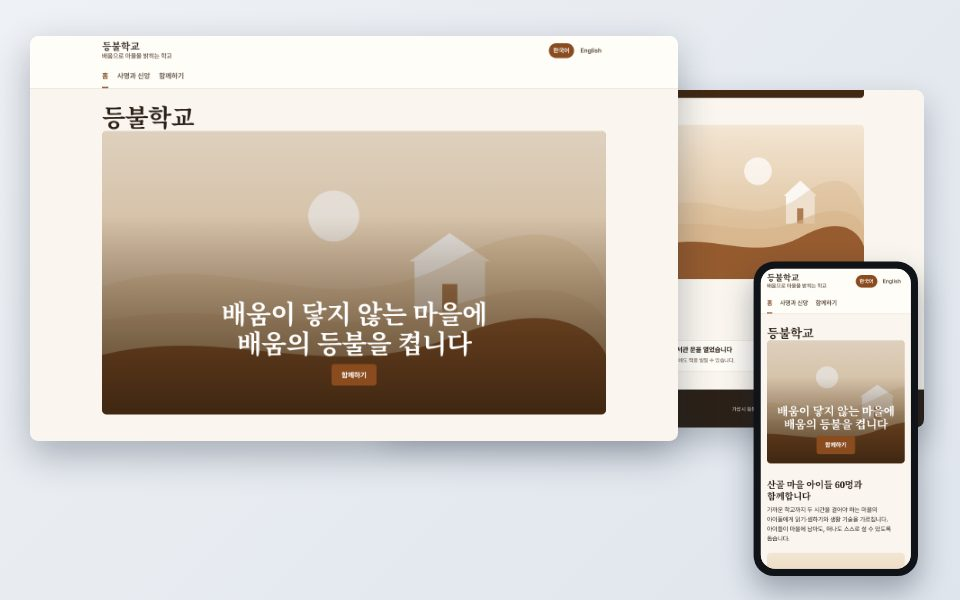
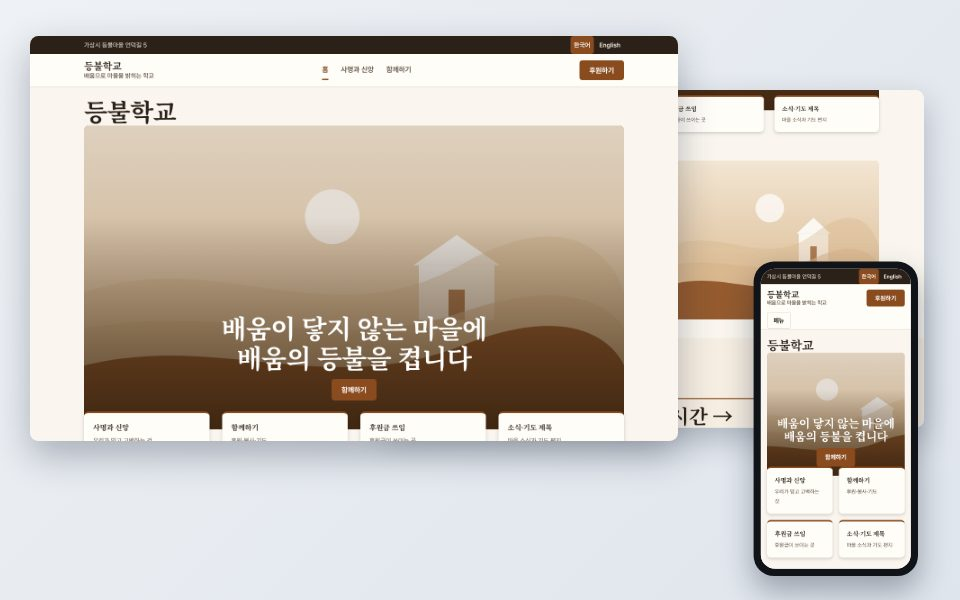
112차: 나머지 5종 템플릿에 학교 홈페이지 공통 구역 적용(알림 v3·입학 v4·사명 v3·국제 v3·한 쪽 v3)
Claude-Session: https://claude.ai/code/session_013RZyUom6xS67hpTPYHpecQ

Changed region(s): [[0.0312, 0.06, 0.7188, 0.75], [0.6875, 0.15, 0.9688, 0.96], [0.3125, 0.36, 0.3438, 0.39]]

diff --git a/src/lib/site-templates.ts b/src/lib/site-templates.ts
@@ -62,7 +62,7 @@ const commonSlots = (): Slot[] => [
 
 export const SITE_TEMPLATES: SiteTemplate[] = [
   {
-    key: 'notice', version: 2, name: '알림 중심형', theme: 'clear', langs: ['ko'],
+    key: 'notice', version: 3, name: '알림 중심형', theme: 'clear', langs: ['ko'],
     summary: '재학생 가정이 매일 찾는 알림·소식·학사일정·급식을 첫 화면에 둡니다.',
     fits: ['공립·지역 학교', '재학생 가정이 주 방문자', '공지가 많은 학교'], firstScreen: '알림 · 최근 소식 · 학사일정 · 급식',
     mustHave: ['학교 소개(인사말·연혁·교육목표)', '학사일정', '오시는 길', '입학·전학 안내'],
@@ -70,14 +70,17 @@ export const SITE_TEMPLATES: SiteTemplate[] = [
       page('home', 0, ko('[학교 이름]'), [
         // 89차: 완성 디자인(맑은 하늘)의 첫 화면 — 큰 사진 위 학교 한 줄(사진은 학교가 올림)
         section({ template: 'banner', title: ko('[학교를 한 문장으로 — 예: 마을과 함께 자라는 학교]'), button: { label: ko('학교 소개'), href: '/p/about' } }),
-        { type: 'notice', text: ko('[이번 주 가장 중요한 알림 한 줄 — 예: 다음 주 월요일 재량 휴업일]') },
-        news(ko('알림·가정통신문'), 6, 'list'),
-        section({ template: 'cards', title: ko('바로 가기'), items: [
+        // 107차: 첫 화면에 걸친 바로가기
+        section({ template: 'cards', variant: 'quicklinks', title: ko('바로 가기'), items: [
           { title: ko('학사일정'), body: ko('[이번 달 주요 일정]'), href: '/p/school-life' },
           { title: ko('급식 안내'), body: ko('[이번 달 식단표는 학교 생활 쪽에]'), href: '/p/school-life' },
+          { title: ko('입학·전학'), body: ko('[입학·전학 안내 한 줄]'), href: '/p/admission' },
           { title: ko('오시는 길'), body: ko('[대중교통·주차 안내]'), href: '/p/about' },
         ] }),
-      ], { site: contact() }),
+        { type: 'notice', text: ko('[이번 주 가장 중요한 알림 한 줄 — 예: 다음 주 월요일 재량 휴업일]') },
+        news(ko('알림·가정통신문'), 6, 'list'),
+        events('알림', '이번 달 학사일정'),
+      ], { site: contact({ label: '오시는 길', href: '/p/about' }) }),
       page('about', 1, ko('학교 소개'), [
         section({ template: 'text', title: ko('인사말'), body: ko('[교장 인사말 3~5문장]') }),
         section({ template: 'facts', title: ko('교육 목표'), items: [{ title: ko('[교육 목표 1]'), body: ko('[설명]') }, { title: ko('[교육 목표 2]'), body: ko('[설명]') }] }),
@@ -88,6 +91,11 @@ export const SITE_TEMPLATES: SiteTemplate[] = [
         section({ template: 'facts', title: ko('학사일정'), items: [{ title: ko('[월]'), body: ko('[주요 일정]') }] }),
         section({ template: 'text', title: ko('급식'), body: ko('[급식 운영 안내 · 이번 달 식단표는 PDF로 올려 주세요]') }),
         section({ template: 'text', title: ko('방과후·돌봄'), body: ko('[운영 시간·신청 방법]') }),
+      ]),
+      page('admission', 3, ko('입학·전학'), [
+        section({ template: 'steps', title: ko('입학·전학 절차'), items: [{ title: ko('문의'), body: ko('[알림 입학 문의]') }, { title: ko('서류 제출'), body: ko('[알림 입학 서류]') }, { title: ko('배정·안내'), body: ko('[알림 배정 안내]') }] }),
+        section({ template: 'facts', title: ko('준비할 서류'), items: [{ title: ko('[알림 서류 1]'), body: ko('[알림 서류 1 설명]') }, { title: ko('[알림 서류 2]'), body: ko('[알림 서류 2 설명]') }] }),
+        section({ template: 'cta', title: ko('입학·전학 문의'), body: ko('[알림 입학 연락처]') }),
       ]),
     ],
     slots: [
@@ -148,20 +156,24 @@ export const SITE_TEMPLATES: SiteTemplate[] = [
     ],
   },
   {
-    key: 'admissions', version: 3, name: '입학 모집형', theme: 'bold', langs: ['ko', 'en'],
+    key: 'admissions', version: 4, name: '입학 모집형', theme: 'bold', langs: ['ko', 'en'],
     summary: '예비 학부모가 차별점을 보고 문의·견학·지원으로 이어지게 합니다.',
     fits: ['신입생을 모집하는 사립·국제학교'], firstScreen: '차별점 3가지 · 입학 단추',
     mustHave: ['입학 절차', '학비·추가 비용', '자주 묻는 질문', '문의처'],
     pages: [
       page('home', 0, kb('[학교 이름]', '[School name]'), [
         section({ template: 'banner', title: kb('[우리 학교를 고르는 이유 한 문장]', '[Why families choose us]'), button: { label: kb('입학 안내', 'Admissions'), href: '/p/admissions' } }),
+        quicklinks([['왜 우리 학교인가', '/p/why'], ['교육과정', '/p/curriculum'], ['입학 안내', '/p/admissions'], ['소식', '/news']], '입학'),
         section({ template: 'cards', title: kb('무엇이 다른가요', 'What makes us different'), items: [
           { title: ko('[차별점 1]'), body: ko('[근거가 되는 사실 한 줄]') }, { title: ko('[차별점 2]'), body: ko('[근거]') }, { title: ko('[차별점 3]'), body: ko('[근거]') }] }),
+        stats('입학'),
+        voices('입학', '학부모·졸업생 이야기'),
+        events('입학', '입학 설명회 일정'),
         news(kb('소식', 'News'), 3),
-      ], { site: contact() }),
+      ], { site: contact({ label: '입학 상담', href: '/p/admissions' }) }),
       page('why', 1, kb('왜 우리 학교인가', 'Why us'), [
         section({ template: 'media-left', title: ko('[졸업생·학부모 이야기]'), body: ko('[실제 이야기 — 이름은 허락받은 경우만]') }),
-        section({ template: 'facts', title: ko('숫자로 보는 학교'), items: [{ title: ko('[학생 수]'), body: ko('[설명]') }, { title: ko('[교사 1인당 학생]'), body: ko('[설명]') }] }),
+        section({ template: 'facts', variant: 'stats', title: ko('숫자로 보는 학교'), items: [{ title: ko('[학생 수]'), body: ko('[설명]') }, { title: ko('[교사 1인당 학생]'), body: ko('[설명]') }] }),
       ]),
       page('curriculum', 2, kb('교육과정', 'Curriculum'), [
         section({ template: 'steps', title: ko('학년별 과정'), items: [{ title: ko('[과정 1]'), body: ko('[설명]') }, { title: ko('[과정 2]'), body: ko('[설명]') }] }),
@@ -176,7 +188,7 @@ export const SITE_TEMPLATES: SiteTemplate[] = [
     ],
     slots: [
       ...commonSlots(),
-      slot('differences', 'home', ['blocks', 1, 'items'], 'list', '차별점 3가지', '차별점과 근거 사실', ['특징', '장점', '차별', 'why', 'unique']),
+      slot('differences', 'home', ['blocks', 2, 'items'], 'list', '차별점 3가지', '차별점과 근거 사실', ['특징', '장점', '차별', 'why', 'unique']),
       slot('process', 'admissions', ['blocks', 0, 'items'], 'list', '입학 절차', '문의→견학→지원→결과', ['입학', '전형', '모집', '원서', 'admission', 'apply']),
       slot('fees', 'admissions', ['blocks', 1, 'items'], 'list', '학비와 비용', '금액은 자료 그대로', ['학비', '수업료', '등록금', '비용', 'tuition', 'fee']),
       slot('faq', 'admissions', ['blocks', 2, 'items'], 'list', '자주 묻는 질문', '질문과 답', ['질문', 'FAQ', '문의']),
@@ -227,16 +239,20 @@ export const SITE_TEMPLATES: SiteTemplate[] = [
     ],
   },
   {
-    key: 'mission', version: 2, name: '사명·후원형', theme: 'lamp', langs: ['ko', 'en'],
+    key: 'mission', version: 3, name: '사명·후원형', theme: 'lamp', langs: ['ko', 'en'],
     summary: '학교의 사명과 함께하는 방법(후원·봉사·기도)을 분명히 알립니다.',
     fits: ['기독교·선교 학교', '후원으로 운영되는 비영리 학교'], firstScreen: '사명 · 후원 단추 · 소식',
     mustHave: ['사명·신앙 고백', '후원 방법과 쓰임', '재정 보고(있으면)'],
     pages: [
       page('home', 0, kb('[학교 이름]', '[School name]'), [
         section({ template: 'banner', title: kb('[학교의 사명 한 문장]', '[Our mission]'), button: { label: kb('함께하기', 'Get involved'), href: '/p/partner' } }),
+        quicklinks([['사명과 신앙', '/p/mission'], ['함께하기', '/p/partner'], ['후원금 쓰임', '/p/partner'], ['소식·기도 제목', '/news']], '사명'),
         section({ template: 'media-right', title: ko('[이 학교가 섬기는 아이들과 마을]'), body: ko('[누구를, 어디에서, 왜]') }),
+        stats('사명'),
+        events('사명', '기도·방문 일정'),
+        voices('사명', '함께하는 분들의 이야기'),
         news(kb('소식·기도 제목', 'News & prayer'), 3),
-      ], { site: contact() }),
+      ], { site: contact({ label: '후원하기', href: '/p/partner' }) }),
       page('mission', 1, kb('사명과 신앙', 'Mission & faith'), [
         section({ template: 'quote', body: ko('[사명 선언문]') }),
         section({ template: 'facts', title: ko('우리가 믿는 것'), items: [{ title: ko('[고백 1]'), body: ko('[설명]') }] }),
@@ -256,7 +272,7 @@ export const SITE_TEMPLATES: SiteTemplate[] = [
     ],
   },
   {
-    key: 'international', version: 2, name: '국제·다국어형', theme: 'horizon', langs: ['en', 'ko', 'th'],
+    key: 'international', version: 3, name: '국제·다국어형', theme: 'horizon', langs: ['en', 'ko', 'th'],
     summary: '여러 언어로 교육과정 경로와 입학 여정을 안내합니다.',
     fits: ['국제학교', '외국 가정·현지 가정을 함께 받는 학교'], firstScreen: '다국어 소개 · 문의 단추',
     mustHave: ['교육과정 경로(학년·인가)', '입학 여정', '학생 생활(기숙·통학)', '언어별 연락처'],
@@ -264,10 +280,20 @@ export const SITE_TEMPLATES: SiteTemplate[] = [
       page('home', 0, { en: '[School name]', ko: '[학교 이름]', th: '[ชื่อโรงเรียน]' }, [
         section({ template: 'banner', title: { en: '[One sentence about the school]', ko: '[학교 소개 한 문장]', th: '[แนะนำโรงเรียนหนึ่งประโยค]' },
           button: { label: { en: 'Enquire', ko: '문의하기', th: 'ติดต่อสอบถาม' }, href: '/p/admissions' } }),
-        section({ template: 'cards', title: { en: 'Pathways', ko: '교육과정 경로', th: 'หลักสูตร' }, items: [
+        section({ template: 'cards', variant: 'quicklinks', title: { en: 'Quick links', ko: '바로 가기', th: 'ลิงก์ด่วน' }, items: [
+          { title: { en: 'Curriculum', ko: '교육과정', th: 'หลักสูตร' }, body: { en: '[Quick link 1]' }, href: '/p/curriculum' },
+          { title: { en: 'Admissions', ko: '입학', th: 'การรับสมัคร' }, body: { en: '[Quick link 2]' }, href: '/p/admissions' },
+          { title: { en: 'Student life', ko: '학생 생활', th: 'ชีวิตนักเรียน' }, body: { en: '[Quick link 3]' }, href: '/p/student-life' },
+          { title: { en: 'News', ko: '소식', th: 'ข่าว' }, body: { en: '[Quick link 4]' }, href: '/news' }] }),
+        section({ template: 'cards', variant: 'stages', title: { en: 'Pathways', ko: '교육과정 경로', th: 'หลักสูตร' }, items: [
           { title: { en: '[Early years]', ko: '[유아]' }, body: { en: '[Ages · programme]' } }, { title: { en: '[Primary]', ko: '[초등]' }, body: { en: '[Ages · programme]' } }, { title: { en: '[Secondary]', ko: '[중등]' }, body: { en: '[Ages · programme]' } }] }),
+        section({ template: 'facts', variant: 'stats', eyebrow: { en: 'At a glance', ko: '숫자로 보는 학교' }, title: { en: '[At a glance title]' },
+          items: [1, 2, 3, 4].map((i) => ({ title: { en: `[Number ${i}]` }, body: { en: `[Number ${i} label]` } })) }),
+        section({ template: 'cards', variant: 'events', eyebrow: { en: 'Coming up', ko: '다가오는 일정' }, title: { en: 'Open days & events', ko: '설명회·행사' },
+          items: [1, 2, 3].map((i) => ({ tag: { en: `[Event ${i} date]` }, title: { en: `[Event ${i}]` }, body: { en: `[Event ${i} note]` } })) }),
         news({ en: 'News', ko: '소식', th: 'ข่าว' }, 3),
-      ], { site: { tagline: { en: '[One line about the school]' }, address: { en: '[Address]' }, footer: { en: '[School name] · [Phone] · [Email]' } } }),
+      ], { site: { tagline: { en: '[One line about the school]' }, address: { en: '[Address]' }, footer: { en: '[School name] · [Phone] · [Email]' },
+        visit: { label: { en: 'Enquire', ko: '문의하기', th: 'ติดต่อสอบถาม' }, href: '/p/admissions' } } }),
       page('curriculum', 1, { en: 'Curriculum', ko: '교육과정', th: 'หลักสูตร' }, [
         section({ template: 'steps', title: { en: 'Pathway', ko: '경로' }, items: [{ title: { en: '[Stage]' }, body: { en: '[Programme · accreditation]' } }] }),
       ]),
@@ -283,7 +309,7 @@ export const SITE_TEMPLATES: SiteTemplate[] = [
       slot('tagline', 'home', ['site', 'tagline'], 'text', 'One line (tagline)', 'One sentence', ['tagline', 'motto', '슬로건']),
       slot('address', 'home', ['site', 'address'], 'contact', 'Address', 'Address', ['address', '주소', 'ที่อยู่']),
       slot('footer', 'home', ['site', 'footer'], 'contact', 'Footer contact', 'Name · phone · email', ['phone', 'email', 'contact', '연락처']),
-      slot('pathways', 'home', ['blocks', 1, 'items'], 'list', 'Pathways', 'Stages with ages and programme', ['IB', 'curriculum', 'programme', 'grade', '교육과정']),
+      slot('pathways', 'home', ['blocks', 2, 'items'], 'list', 'Pathways', 'Stages with ages and programme', ['IB', 'curriculum', 'programme', 'grade', '교육과정']),
       slot('journey', 'admissions', ['blocks', 0, 'items'], 'list', 'Admissions journey', 'Enquire → visit → apply → join', ['admission', 'apply', 'enrol', '입학']),
       slot('fees', 'admissions', ['blocks', 1, 'items'], 'list', 'Fees', 'As stated in source', ['fee', 'tuition', '학비']),
     ],
@@ -339,7 +365,7 @@ export const SITE_TEMPLATES: SiteTemplate[] = [
     ],
   },
   {
-    key: 'single', version: 2, name: '한 쪽 소개형', theme: 'seed', langs: ['ko'],
+    key: 'single', version: 3, name: '한 쪽 소개형', theme: 'seed', langs: ['ko'],
     summary: '막 시작한 작은 학교·모임이 한 쪽에 소개·연락·소식을 담습니다.',
     fits: ['막 시작한 작은 학교', '홈스쿨 연합·배움 모임'], firstScreen: '소개 · 하는 일 · 연락',
     mustHave: ['누구를 위한 모임인지', '연락 방법'],
@@ -347,6 +373,7 @@ export const SITE_TEMPLATES: SiteTemplate[] = [
       page('home', 0, ko('[학교·모임 이름]'), [
         section({ template: 'text', title: ko('[우리는 누구인가요]'), body: ko('[두세 문장 소개]') }),
         section({ template: 'cards', title: ko('하는 일'), items: [{ title: ko('[활동 1]'), body: ko('[설명]') }, { title: ko('[활동 2]'), body: ko('[설명]') }] }),
+        events('모임', '다가오는 모임'),
         news(ko('소식'), 3, 'list'),
         section({ template: 'cta', title: ko('함께하고 싶으신가요?'), body: ko('[연락 방법]'), button: { label: ko('연락하기'), href: '/' } }),
       ], { site: contact() }),

diff --git a/src/lib/site-template-samples.ts b/src/lib/site-template-samples.ts
@@ -21,9 +21,18 @@ const contact = (name: string, phone: string, email: string, address: string, ta
 export const TEMPLATE_SAMPLES: Record<string, TemplateSample> = {
   notice: {
     school: '물빛초등학교',
-    images: [{ at: ['home', 'blocks', 0, 'asset'], name: 'notice-hero' }, { at: ['home', 'blocks', 3, 'items', 0, 'asset'], name: 'notice-calendar' }, { at: ['home', 'blocks', 3, 'items', 1, 'asset'], name: 'notice-lunch' }, { at: ['home', 'blocks', 3, 'items', 2, 'asset'], name: 'notice-way' }],
+    images: [{ at: ['home', 'blocks', 0, 'asset'], name: 'notice-hero' }],
     text: {
       ...contact('물빛초등학교', '000-000-0000', 'office@example.org', '가상시 물빛구 배움로 12', '서로 배우고 함께 자라는 마을 학교'),
+      // 107차(가상 예시)
+      '[입학·전학 안내 한 줄]': '전입 서류와 첫날 안내',
+      '[알림 행사 1 날짜]': '11.11', '[알림 행사 1]': '재량 휴업일', '[알림 행사 1 안내]': '돌봄교실은 평소처럼 운영합니다',
+      '[알림 행사 2 날짜]': '11.20', '[알림 행사 2]': '학부모 상담 주간', '[알림 행사 2 안내]': '20~24일, 담임과 15분 상담',
+      '[알림 행사 3 날짜]': '11.28', '[알림 행사 3]': '학예회', '[알림 행사 3 안내]': '오전 10시 강당, 가족 누구나',
+      '[알림 입학 문의]': '교무실에 전화로 전입 날짜를 알려 주세요', '[알림 입학 서류]': '주민센터 전입 신고 뒤 학교에 서류 제출', '[알림 배정 안내]': '반 배정과 첫날 준비물을 안내합니다',
+      '[알림 서류 1]': '재학 증명서', '[알림 서류 1 설명]': '전에 다니던 학교에서 발급(전학의 경우)',
+      '[알림 서류 2]': '예방 접종 확인', '[알림 서류 2 설명]': '보건실에서 확인합니다',
+      '[알림 입학 연락처]': '교무실 000-000-0000 · office@example.org · 평일 오전 9시~오후 4시',
       '[학교를 한 문장으로 — 예: 마을과 함께 자라는 학교]': '마을과 함께 자라는 우리 동네 학교',
       '[이번 주 가장 중요한 알림 한 줄 — 예: 다음 주 월요일 재량 휴업일]': '다음 주 월요일(11일)은 재량 휴업일입니다. 돌봄교실은 평소처럼 운영합니다.',
       '[이번 달 주요 일정]': '11일 재량 휴업 · 20일 학부모 상담 주간 · 28일 학예회',
@@ -93,9 +102,21 @@ export const TEMPLATE_SAMPLES: Record<string, TemplateSample> = {
   },
   admissions: {
     school: '새솔아카데미',
-    images: [{ at: ['home', 'blocks', 0, 'asset'], name: 'admissions-hero' }, { at: ['home', 'blocks', 1, 'items', 0, 'asset'], name: 'admissions-class' }, { at: ['home', 'blocks', 1, 'items', 1, 'asset'], name: 'admissions-books' }, { at: ['home', 'blocks', 1, 'items', 2, 'asset'], name: 'admissions-mentor' }],
+    images: [{ at: ['home', 'blocks', 0, 'asset'], name: 'admissions-hero' }, { at: ['home', 'blocks', 2, 'items', 0, 'asset'], name: 'admissions-class' }, { at: ['home', 'blocks', 2, 'items', 1, 'asset'], name: 'admissions-books' }, { at: ['home', 'blocks', 2, 'items', 2, 'asset'], name: 'admissions-mentor' }],
     text: {
       ...contact('새솔아카데미', '000-000-0000', 'admissions@example.org', '가상시 새솔구 미래로 30', '작은 학급, 깊은 배움'),
+      // 107차(가상 예시)
+      '[입학 바로가기 설명 1]': '작은 학급과 두 언어 수업', '[입학 바로가기 설명 2]': '기초·심화 과정', '[입학 바로가기 설명 3]': '절차·학비·질문', '[입학 바로가기 설명 4]': '학교 소식과 설명회',
+      '[입학 숫자 띠 제목]': '작은 학급이 만드는 차이',
+      '[입학 숫자 1]': '15명', '[입학 숫자 1 설명]': '한 반 최대 학생 수', '[입학 숫자 2]': '2개', '[입학 숫자 2 설명]': '수업 언어(국어·영어)',
+      '[입학 숫자 3]': '1:1', '[입학 숫자 3 설명]': '9학년부터 진로 멘토', '[입학 숫자 4]': '12년', '[입학 숫자 4 설명]': '1~12학년 한 캠퍼스',
+      '[공개에 동의한 분의 말만 싣습니다]': '예시 글입니다. 실제로는 공개에 동의한 분의 말만 싣습니다.',
+      '[입학 말한 사람 1]': '학부모 · 4학년', '[입학 목소리 1]': '선생님이 아이의 질문 하나하나를 기억해 주세요.',
+      '[입학 말한 사람 2]': '졸업생 · 2025년', '[입학 목소리 2]': '멘토와 함께 세운 진로 계획이 대학 선택의 기준이 됐어요.',
+      '[입학 말한 사람 3]': '학부모 · 8학년', '[입학 목소리 3]': '두 언어로 배우면서도 기초가 탄탄해졌습니다.',
+      '[입학 행사 1 날짜]': '9.13', '[입학 행사 1]': '1차 입학 설명회', '[입학 행사 1 안내]': '오전 10시 강당, 학교 둘러보기 포함',
+      '[입학 행사 2 날짜]': '10.11', '[입학 행사 2]': '2차 입학 설명회', '[입학 행사 2 안내]': '수업 참관과 Q&A',
+      '[입학 행사 3 날짜]': '11.01', '[입학 행사 3]': '원서 접수 시작', '[입학 행사 3 안내]': '온라인 접수, 11월 말 마감',
       '[School name]': 'Saesol Academy',
       '[신청 안내 한 줄]': '견학이나 상담을 원하시면 남겨 주세요. 입학 담당이 연락드립니다.',
       '[우리 학교를 고르는 이유 한 문장]': '한 반 열다섯 명, 한 명도 놓치지 않습니다',
@@ -172,9 +193,21 @@ export const TEMPLATE_SAMPLES: Record<string, TemplateSample> = {
   },
   mission: {
     school: '등불학교',
-    images: [{ at: ['home', 'blocks', 0, 'asset'], name: 'mission-hero' }, { at: ['home', 'blocks', 1, 'asset'], name: 'mission-village' }],
+    images: [{ at: ['home', 'blocks', 0, 'asset'], name: 'mission-hero' }, { at: ['home', 'blocks', 2, 'asset'], name: 'mission-village' }],
     text: {
       ...contact('등불학교', '000-000-0000', 'partner@example.org', '가상시 등불마을 언덕길 5', '배움으로 마을을 밝히는 학교'),
+      // 107차(가상 예시)
+      '[사명 바로가기 설명 1]': '우리가 믿고 고백하는 것', '[사명 바로가기 설명 2]': '후원·봉사·기도', '[사명 바로가기 설명 3]': '후원금이 쓰이는 곳', '[사명 바로가기 설명 4]': '마을 소식과 기도 편지',
+      '[사명 숫자 띠 제목]': '함께 켜 온 등불',
+      '[사명 숫자 1]': '60명', '[사명 숫자 1 설명]': '함께 배우는 마을 아이들', '[사명 숫자 2]': '8명', '[사명 숫자 2 설명]': '마을에 사는 교사',
+      '[사명 숫자 3]': '2시간 → 10분', '[사명 숫자 3 설명]': '학교까지 걷는 시간', '[사명 숫자 4]': '120가정', '[사명 숫자 4 설명]': '정기 후원으로 함께하는 가정',
+      '[사명 행사 1 날짜]': '3.02', '[사명 행사 1]': '새 학년 개학 예배', '[사명 행사 1 안내]': '함께 기도해 주세요',
+      '[사명 행사 2 날짜]': '7.20', '[사명 행사 2]': '여름 봉사 주간', '[사명 행사 2 안내]': '영어 캠프·시설 보수 봉사자 모집',
+      '[사명 행사 3 날짜]': '12.15', '[사명 행사 3]': '후원자 초청의 날', '[사명 행사 3 안내]': '한 해 재정 보고와 감사 모임',
+      '[공개에 동의한 분의 말만 싣습니다]': '예시 글입니다. 실제로는 공개에 동의한 분의 말만 싣습니다.',
+      '[사명 말한 사람 1]': '후원자 · 5년째', '[사명 목소리 1]': '기도 편지에 아이들 이름이 하나씩 늘어 가는 게 기쁨입니다.',
+      '[사명 말한 사람 2]': '봉사자 · 여름 캠프', '[사명 목소리 2]': '가르치러 갔는데 오히려 배우고 돌아왔어요.',
+      '[사명 말한 사람 3]': '교사', '[사명 목소리 3]': '아이들이 마을에서 처음으로 책을 끝까지 읽은 날을 잊지 못합니다.',
       '[School name]': 'Lamplight School',
       '[학교의 사명 한 문장]': '배움이 닿지 않는 마을에 배움의 등불을 켭니다',
       '[Our mission]': 'Lighting a lamp of learning where schooling is out of reach',
@@ -193,7 +226,7 @@ export const TEMPLATE_SAMPLES: Record<string, TemplateSample> = {
   },
   international: {
     school: 'Mapleglen International School',
-    images: [{ at: ['home', 'blocks', 0, 'asset'], name: 'international-hero' }, { at: ['home', 'blocks', 1, 'items', 0, 'asset'], name: 'international-early' }, { at: ['home', 'blocks', 1, 'items', 1, 'asset'], name: 'international-primary' }, { at: ['home', 'blocks', 1, 'items', 2, 'asset'], name: 'international-secondary' }],
+    images: [{ at: ['home', 'blocks', 0, 'asset'], name: 'international-hero' }, { at: ['home', 'blocks', 2, 'items', 0, 'asset'], name: 'international-early' }, { at: ['home', 'blocks', 2, 'items', 1, 'asset'], name: 'international-primary' }, { at: ['home', 'blocks', 2, 'items', 2, 'asset'], name: 'international-secondary' }],
     text: {
       '[School name]': 'Mapleglen International School', '[학교 이름]': '메이플글렌 국제학교', '[ชื่อโรงเรียน]': 'โรงเรียนนานาชาติเมเปิลเกลน',
       '[One sentence about the school]': 'A small international school where every child is known by name',
@@ -211,6 +244,13 @@ export const TEMPLATE_SAMPLES: Record<string, TemplateSample> = {
       '[Fee]': 'Annual tuition', '[Amount · terms]': 'Sample figure · paid per term (actual fees from school documents)',
       '[Boarding / day students]': 'Day students',
       '[Daily life, activities, care]': 'School runs 8:00–15:30. Clubs include football, music and coding. A pastoral tutor meets each student weekly.',
+      // 107차(sample)
+      '[Quick link 1]': 'Early years to secondary', '[Quick link 2]': 'Enquire, visit, apply, join', '[Quick link 3]': 'Clubs, care and daily life', '[Quick link 4]': 'Stories from our community',
+      '[At a glance title]': 'A small school with a wide world',
+      '[Number 1]': '320', '[Number 1 label]': 'students aged 3–18', '[Number 2]': '28', '[Number 2 label]': 'nationalities', '[Number 3]': '1:9', '[Number 3 label]': 'teacher to student', '[Number 4]': '3', '[Number 4 label]': 'school languages',
+      '[Event 1 date]': '10.04', '[Event 1]': 'Open morning', '[Event 1 note]': 'Campus tour and classroom visits',
+      '[Event 2 date]': '11.08', '[Event 2]': 'Admissions webinar', '[Event 2 note]': 'Ask our admissions team online',
+      '[Event 3 date]': '12.12', '[Event 3]': 'Winter concert', '[Event 3 note]': 'Families welcome',
     },
   },
   kinder: {
@@ -257,6 +297,10 @@ export const TEMPLATE_SAMPLES: Record<string, TemplateSample> = {
     images: [{ at: ['home', 'blocks', 1, 'items', 0, 'asset'], name: 'single-study' }, { at: ['home', 'blocks', 1, 'items', 1, 'asset'], name: 'single-outing' }],
     text: {
       ...contact('작은씨앗 배움모임', '000-000-0000', 'seed@example.org', '가상시 씨앗동 공부방길 2', '여섯 가정이 함께 꾸리는 배움 모임'),
+      // 107차(가상 예시)
+      '[모임 행사 1 날짜]': '매주 화·목', '[모임 행사 1]': '함께 배우는 날', '[모임 행사 1 안내]': '오전 10시, 공부방',
+      '[모임 행사 2 날짜]': '5.17', '[모임 행사 2]': '농장 나들이', '[모임 행사 2 안내]': '도시락을 챙겨 오세요',
+      '[모임 행사 3 날짜]': '5.31', '[모임 행사 3]': '처음 오는 가정 모임', '[모임 행사 3 안내]': '둘러보고 이야기 나누는 시간',
       '[학교·모임 이름]': '작은씨앗 배움모임',
       '[우리는 누구인가요]': '함께 배우는 여섯 가정',
       '[두세 문장 소개]': '집에서 배우는 아이들이 일주일에 두 번 모여 함께 공부하고 놉니다. 부모가 돌아가며 수업을 맡고, 필요한 분야는 마을 선생님을 모십니다.',

diff --git a/tests/site-templates-db.test.ts b/tests/site-templates-db.test.ts
@@ -30,7 +30,7 @@ describe('템플릿 적용', () => {
   it('없는 쪽만 시안으로 만들고, 있는 쪽은 건너뛰며, 공개하지 않는다', async () => {
     await asUser(A.userId, (db) => site.createEntry(db, A.schoolId, { kind: 'page', key: 'about', content: { title: { ko: '우리 학교가 이미 쓴 소개' }, blocks: [] } }));
     const r = await asUser(A.userId, (db) => tpl.applyTemplate(db, A.schoolId, 'notice'));
-    expect(r.created.map((c) => c.key)).toEqual(['home', 'school-life']);
+    expect(r.created.map((c) => c.key)).toEqual(['home', 'school-life', 'admission']);
     expect(r.skipped).toEqual(['about']);
     const entries = await asUser(A.userId, (db) => site.listEntries(db, A.schoolId));
     const about = entries.find((e) => e.key === 'about')!;
@@ -39,7 +39,7 @@ describe('템플릿 적용', () => {
       expect(e).toMatchObject({ live_version: null, latest_version: 1, status: 'draft' });
     }
     const home = await asUser(A.userId, (db) => site.getEntry(db, A.schoolId, r.created[0].id));
-    expect(home.versions[0].note).toBe('템플릿 알림 중심형 v2');
+    expect(home.versions[0].note).toBe('템플릿 알림 중심형 v3');
     expect(home.versions[0].content.site?.footer?.ko).toContain('[학교 이름]');
   });
 
@@ -47,8 +47,8 @@ describe('템플릿 적용', () => {
     const again = await asUser(A.userId, (db) => tpl.applyTemplate(db, A.schoolId, 'notice'));
     expect(again.created).toEqual([]);
     const story = await asUser(A.userId, (db) => tpl.applyTemplate(db, A.schoolId, 'story'));
-    expect(story.created.map((c) => c.key)).toEqual(['philosophy', 'learning', 'community', 'admission']);
-    expect(story.skipped).toEqual(['home']);
+    expect(story.created.map((c) => c.key)).toEqual(['philosophy', 'learning', 'community']);
+    expect(story.skipped).toEqual(['home', 'admission']);
     expect((await asUser(B.userId, (db) => site.listEntries(db, B.schoolId))).length).toBe(0);
     const b = await asUser(B.userId, (db) => tpl.applyTemplate(db, B.schoolId, 'international'));
     expect(b.created.map((c) => c.key)).toEqual(['home', 'curriculum', 'admissions', 'student-life']);
@@ -73,7 +73,7 @@ describe('66차 학교 자료로 빈 칸 채우기', () => {
     expect(by.about).toMatchObject({ version: null, kept: ['goals'] }); // 학교가 먼저 쓴 소개 쪽(템플릿 블록 없음)은 그대로
     const entries = await asUser(A.userId, (db) => site.listEntries(db, A.schoolId));
     const home = entries.find((e) => e.key === 'home')!;
-    expect(home).toMatchObject({ live_version: null, meta: { template: 'notice@2' } });
+    expect(home).toMatchObject({ live_version: null, meta: { template: 'notice@3' } });
     const v = await asUser(A.userId, (db) => site.getEntry(db, A.schoolId, home.id));
     expect(v.versions[0].content.site?.address).toEqual({ ko: '경기도 예시시 꿈마을로 12' });
     expect(v.versions[0].note).toContain('자료로 빈 칸 채움');

diff --git a/docs/NEXT.md b/docs/NEXT.md
@@ -42,8 +42,8 @@
 ## 홈페이지 템플릿 (99차, Codex 협업)
 대표 3종(이야기·프로젝트·유치원)에 Codex가 생성한 예시 사진 22장(`public/site-templates/img/`, 프롬프트·규격 `docs/design/template-photo-manifest.json`)과 쪽마다 다른 배치(홈 + 안쪽 9쪽)가 들어갔다. 판: story 3, project 4, kinder 3. 다음은 골격 B·E와 나머지 5종 사진(16장, `docs/design/template-image-prompts.md`), 새 템플릿(재외 한글학교·기숙형·진로 특성화). Codex에게 맡기는 길은 `docs/COLLABORATION.md` 8절.
 
-## 홈페이지 레이아웃 (106·107차)
-키트 테마에 레이아웃 층(1200px 격자·구역 띠·구역 머리·한 줄 머리글·4칸 바닥글)이 들어갔다(`globals.css` 끝 '100차'·'107차' 주석 블록, `SiteFrame` kit 분기). 107차: 새 구역 모양 5가지(quicklinks·stages·stats·events·voices), 머리글 위 작은 줄, 대표 3종 홈 순서·입학 쪽. 다음: 나머지 5종 템플릿에 적용, 로고 줄. Codex 연결: Mac 폴더는 클라우드 세션에 제공되지 않음(`docs/COLLABORATION.md` 8절) → Claude 구현 + Codex PR 검토.
+## 홈페이지 레이아웃 (106·107·112차)
+키트 테마에 레이아웃 층(1200px 격자·구역 띠·구역 머리·한 줄 머리글·4칸 바닥글)이 들어갔다(`globals.css` 끝 '100차'·'107차' 주석 블록, `SiteFrame` kit 분기). 107차: 새 구역 모양 5가지(quicklinks·stages·stats·events·voices), 머리글 위 작은 줄, 대표 3종 홈 순서·입학 쪽. 112차: 나머지 5종에도 적용(알림 v3·입학 v4·사명 v3·국제 v3·한 쪽 v3). 다음: 5종 예시 사진 16장, 로고 줄. Codex 연결: Mac 폴더는 클라우드 세션에 제공되지 않음(`docs/COLLABORATION.md` 8절) → Claude 구현 + Codex PR 검토.
 
 ## 학교 이전 (92차, ADR 0035)
 공용 DB 기본, 학교 맞춤은 설정값(사본·규칙 판·정의·계산식). 학교는 `scripts/school-move.mjs`로 전용·독립 DB로 옮긴다(`docs/SCHOOL-MOVE.md`). CI `tests/school-move.test.ts`가 연습 이전·구조 문(새 학교 표는 UUID·복합 외래키)을 지킨다.

diff --git a/docs/rounds/round-112.md b/docs/rounds/round-112.md
@@ -1,0 +1,22 @@
+# 112차: 나머지 5종 템플릿에 학교 홈페이지 공통 구역 적용
+
+- 날짜: 2026-11-27 · 세션: 학교 홈페이지 기능·템플릿(`session_013RZyUom6xS67hpTPYHpecQ`)
+- 근거: `docs/design/school-site-ia.md` 4~6절, `template-reference-board.md` 3절. 107차(대표 3종)에 이어 나머지 5종
+- 방식: Claude가 구현하고 Codex가 PR 검토
+
+## 한 일 (레이아웃 체계는 106차로 이미 적용됨)
+| 템플릿 | 판 | 바뀐 것 |
+| --- | --- | --- |
+| 알림 중심형 | v3 | 바로 가기를 첫 화면에 걸친 4칸으로 바꿈(입학·전학 더함). 이번 달 학사일정(날짜 배지). '입학·전학' 쪽(절차·서류·문의). 주요 행동 '오시는 길' |
+| 입학 모집형 | v4 | 바로가기, 숫자 띠, 학부모·졸업생 이야기, 입학 설명회 일정. '왜 우리 학교' 숫자는 숫자 띠로. 주요 행동 '입학 상담' |
+| 사명·후원형 | v3 | 바로가기, 숫자 띠(섬기는 아이·교사·후원 가정), 기도·방문 일정, 함께하는 분들의 이야기. 주요 행동 '후원하기' |
+| 국제·다국어형 | v3 | 바로가기(영·한·태), 교육과정 경로를 학년 단계 카드로, 숫자 띠, 설명회·행사. 주요 행동 'Enquire' |
+| 한 쪽 소개형 | v3 | 다가오는 모임(날짜 배지) |
+
+- 예시 숫자·행사·목소리는 모두 가상 학교의 합성 자료다. 학비 금액은 싣지 않는다.
+- 썸네일 5장을 다시 찍었다. 이 5종의 사진은 아직 자리 그림이다(사진 16장은 `template-image-prompts.md`).
+
+## 시험
+- typecheck, lint:colors, lint:i18n, check:repo, build, test:unit, `npm test`, E2E 52/52
+  - 템플릿 적용 시험의 기대값을 고쳤다: 알림형에 입학 쪽이 생겨, 이야기형 적용 때 입학 쪽은 건너뛴다.
+- 1440·390px 화면, 5종 홈과 알림형 입학 쪽: 가로 넘침 0
